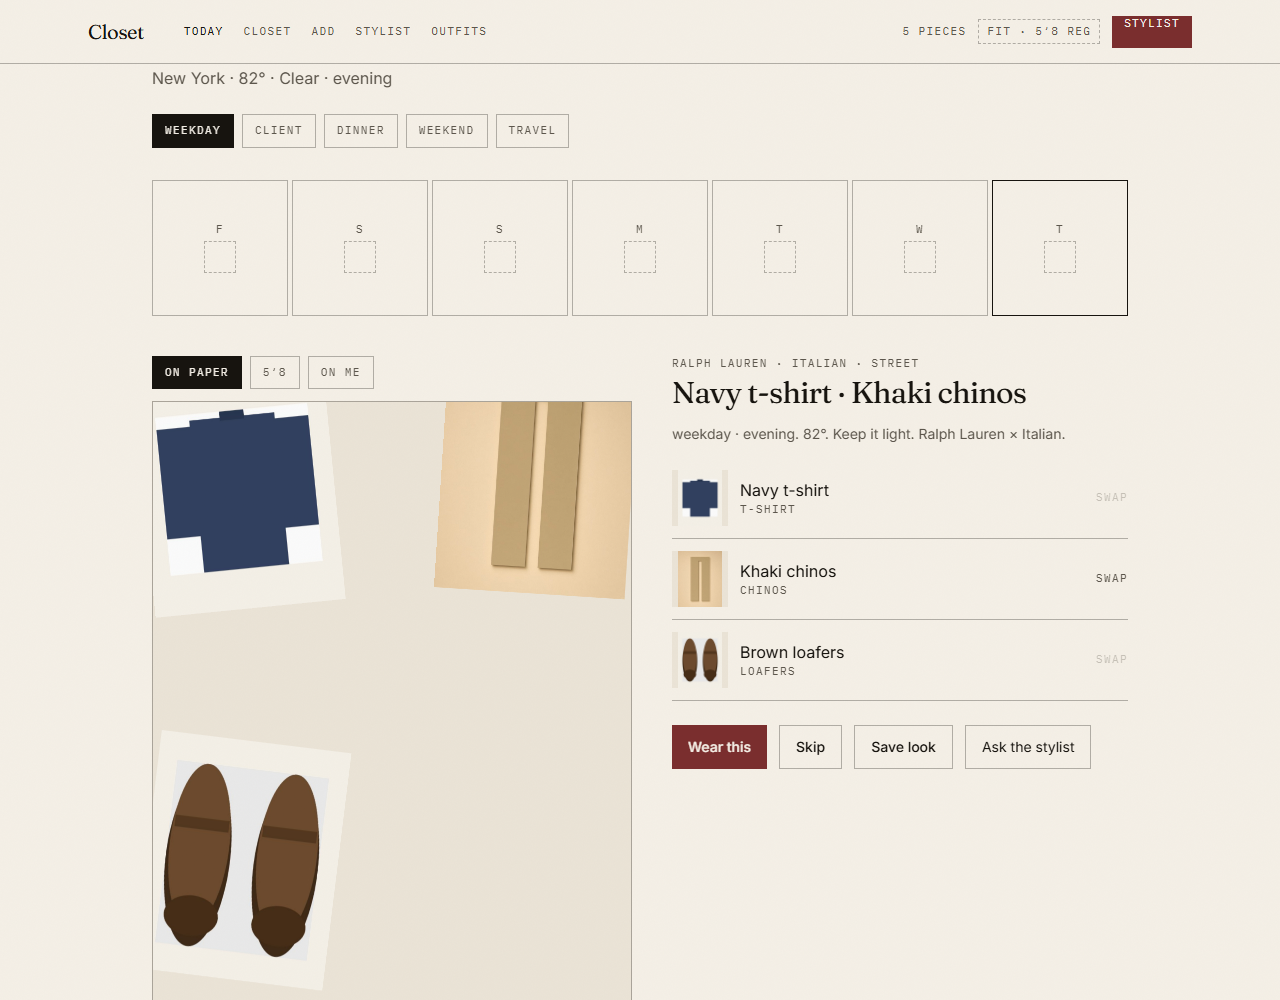
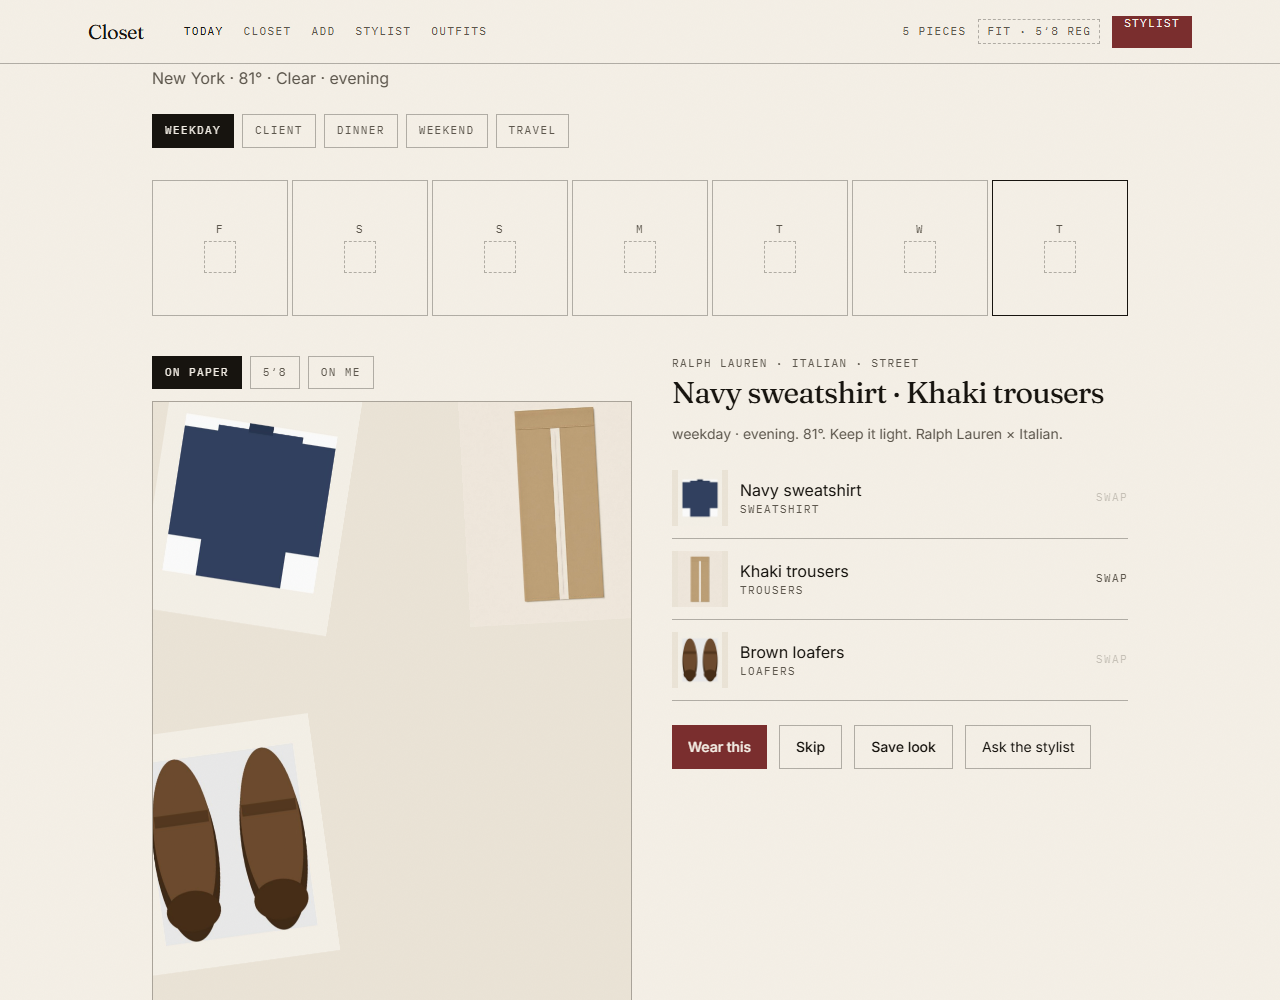
Cover law: page, phone, or studio — never a webpage on the grid
- matte classifies the upload: page (chrome bands), phone (flood vs
  interior), studio (near-white, crop to content, fills the page).
- Pages only enter the closet as an extracted garment. With the key,
  grok-imagine pulls the single piece out of the chrome; without it,
  the upload is refused — right-click the clothing photo, drop that.
- Covers are tagged, not screenshots: name the cover, brand may be
  read from the page chrome as context (Axel Arigato, AMI), never
  FARFETCH IDs or IMG_ filenames.
- Drawer: Cover | Original, 'Use my photo as cover'.

diff --git a/src/components/add/studio.tsx b/src/components/add/studio.tsx
@@ -24,12 +24,24 @@ type Saved = {
   cutout: string;
 };
 
+/** A shopping-page screenshot we cannot extract (no key) — not a read error. */
+class PageRejected extends Error {}
+
+/** Filenames and shop chrome are never names. */
+function badName(name: string): boolean {
+  return (
+    looksLikeFilename(name) ||
+    /farfetch|ssense|net-a-porter|mr\s?porter|add to bag|\bID\b/i.test(name)
+  );
+}
+
 export function Studio() {
   const addGarment = useCloset((s) => s.addGarment);
   const [busy, setBusy] = useState(false);
   const [progress, setProgress] = useState("");
   const [error, setError] = useState<string | null>(null);
   const [failed, setFailed] = useState<string[]>([]);
+  const [rejected, setRejected] = useState<string[]>([]);
   const [saved, setSaved] = useState<Saved[]>([]);
   const [canPrint, setCanPrint] = useState<boolean | null>(null);
   const pickRef = useRef<HTMLInputElement>(null);
@@ -47,15 +59,21 @@ export function Studio() {
       // Originals shrink to max edge 1600 before they ever touch storage.
       const original = await shrinkDataUrl(raw, 1600, 0.85);
       const matte = await matteToPaper(original);
-      // The catalog print is a digital print of HIS exact piece — the flood
-      // cutout stays as fallback if there's no key or the edit fails.
+      // A webpage is never a cover. Without the key we cannot extract the
+      // garment, so the piece is refused instead of framed.
+      if (matte.kind === "page" && !canPrint) {
+        throw new PageRejected();
+      }
+      // The cover is a catalog photograph of HIS exact piece — for phone
+      // shots the flood cutout stays as fallback if the edit fails.
       let cutout = matte.cutoutSrc;
-      let source: ImageSource = matte.official
-        ? "official"
-        : matte.quality === "busy"
-          ? "photo"
-          : "segmented";
-      if (!matte.official && canPrint) {
+      let source: ImageSource =
+        matte.kind === "studio"
+          ? "official"
+          : matte.quality === "busy"
+            ? "photo"
+            : "segmented";
+      if (matte.kind !== "studio" && canPrint) {
         try {
           const print = await printGarment({
             data: { image: await shrinkDataUrl(original, 1024) },
@@ -70,24 +88,40 @@ export function Studio() {
           /* flood version stays */
         }
       }
+      // A page only enters the closet as an extracted garment. If the edit
+      // failed, refuse it rather than frame the webpage.
+      if (matte.kind === "page" && source !== "cutout") {
+        throw new PageRejected();
+      }
       let name = "";
       let category: Category = "other";
       let subtype = "";
       let colors: string[] = [];
       let material = "";
+      let brand = "";
       let fit: "slim" | "regular" | "relaxed" = "regular";
       let formality: 1 | 2 | 3 | 4 | 5 = 3;
       let warmth: 1 | 2 | 3 | 4 | 5 = 3;
       try {
-        // Tag the print, not the messy original.
+        // Tag the cover, not the messy original. For a page, the original
+        // goes along as context only — the brand may live in the chrome.
         const thumb = await shrinkDataUrl(cutout, 768);
-        const tag = await tagGarment({ data: { image: thumb } });
-        if (tag.ok && !looksLikeFilename(tag.name)) {
+        const tag = await tagGarment({
+          data: {
+            image: thumb,
+            context:
+              matte.kind === "page"
+                ? await shrinkDataUrl(original, 768)
+                : undefined,
+          },
+        });
+        if (tag.ok && !badName(tag.name)) {
           name = tag.name;
           category = tag.category;
           subtype = tag.subtype;
           colors = tag.colors;
           material = tag.material;
+          brand = tag.brand;
           fit = tag.fit;
           formality = tag.formality;
           warmth = tag.warmth;
@@ -95,9 +129,9 @@ export function Studio() {
       } catch {
         /* fall through to guess */
       }
-      if (!name || looksLikeFilename(name) || category === "other") {
+      if (!name || badName(name) || category === "other") {
         const guess = await guessGarment(cutout);
-        if (!name || looksLikeFilename(name)) name = guess.name;
+        if (!name || badName(name)) name = guess.name;
         if (category === "other") {
           category = guess.category;
           subtype = subtype || guess.subtype;
@@ -115,7 +149,7 @@ export function Studio() {
         subtype,
         colors,
         material,
-        brand: "",
+        brand,
         notes: matte.reason,
         formality,
         warmth,
@@ -143,6 +177,7 @@ export function Studio() {
       let i = 0;
       let done = 0;
       const misses: string[] = [];
+      const pages: string[] = [];
       const worker = async () => {
         while (i < images.length) {
           const file = images[i++]!;
@@ -152,9 +187,10 @@ export function Studio() {
             done++;
             setProgress(`${done} / ${images.length} — ${piece.name}`);
             setSaved((cur) => [piece, ...cur]);
-          } catch {
+          } catch (e) {
             done++;
-            misses.push(file.name);
+            if (e instanceof PageRejected) pages.push(file.name);
+            else misses.push(file.name);
           }
           // Let the tab breathe between pieces.
           await new Promise((r) => setTimeout(r, 0));
@@ -164,6 +200,7 @@ export function Studio() {
       setBusy(false);
       setProgress("");
       if (misses.length) setFailed((cur) => [...misses, ...cur]);
+      if (pages.length) setRejected((cur) => [...pages, ...cur]);
     },
     [processOne],
   );
@@ -259,12 +296,19 @@ export function Studio() {
       {canPrint === false && (
         <p className="text-sm text-ink-soft border border-hairline bg-card px-4 py-3">
           No XAI_API_KEY here — pieces float on paper with the local cut instead
-          of a catalog print. Set XAI_API_KEY for catalog prints.
+          of a catalog cover. Set XAI_API_KEY for catalog covers.
         </p>
       )}
       {error && (
         <p className="text-sm text-accent border border-accent/40 bg-card px-4 py-3">
           {error}
+        </p>
+      )}
+      {rejected.length > 0 && (
+        <p className="text-sm text-accent border border-accent/40 bg-card px-4 py-3">
+          {rejected.slice(0, 6).join(", ")}
+          {rejected.length > 6 ? "…" : ""} — that’s a webpage. Right-click the
+          clothing photo, save it, drop that.
         </p>
       )}
       {failed.length > 0 && (

diff --git a/src/lib/ai.ts b/src/lib/ai.ts
@@ -8,6 +8,7 @@ export type TagResult = {
   subtype: string;
   colors: string[];
   material: string;
+  brand: string;
   fit: "slim" | "regular" | "relaxed";
   formality: 1 | 2 | 3 | 4 | 5;
   warmth: 1 | 2 | 3 | 4 | 5;
@@ -24,10 +25,25 @@ const CATEGORY_SET = new Set([
 ]);
 
 export const tagGarment = createServerFn({ method: "POST" })
-  .validator((input: { image: string }) => input)
+  .validator((input: { image: string; context?: string }) => input)
   .handler(async ({ data }): Promise<TagResult> => {
     const apiKey = process.env.XAI_API_KEY;
     if (!apiKey) return { ok: false, error: "AI tagging is unavailable here." };
+
+    const userContent: unknown[] = [
+      { type: "image_url", image_url: { url: data.image } },
+    ];
+    if (data.context) {
+      userContent.push({ type: "image_url", image_url: { url: data.context } });
+    }
+    userContent.push({
+      type: "text",
+      text:
+        'Return ONLY JSON: {"name":"Khaki chinos","category":"top|bottom|outerwear|dress|footwear|accessory|other","subtype":"chinos","colors":["khaki"],"material":"cotton","brand":"","fit":"slim|regular|relaxed","formality":3,"warmth":2}. Name the FIRST image like a closet label: color + garment (Navy oxford, Grey merino, White sneakers). Fit from how it lies. If unsure, regular.' +
+        (data.context
+          ? " The second image is only the page the garment came from — you may read a brand name from it (Axel Arigato, AMI), nothing else. Never name the garment after the shop or a page ID."
+          : " Brand only if a label or logo is legible on the garment itself, else empty."),
+    });
 
     const res = await fetch("https://api.x.ai/v1/chat/completions", {
       method: "POST",
@@ -43,18 +59,9 @@ export const tagGarment = createServerFn({ method: "POST" })
           {
             role: "system",
             content:
-              "You tag ONE garment in the photo. Catalog voice. Never a filename (no IMG_0930). Never invent a brand. JSON only.",
+              "You tag ONE garment in the photo. Catalog voice. Never a filename (no IMG_0930). Never a shop name or page ID (no FARFETCH, no SKU). Never invent a brand. JSON only.",
           },
-          {
-            role: "user",
-            content: [
-              { type: "image_url", image_url: { url: data.image } },
-              {
-                type: "text",
-                text: 'Return ONLY JSON: {"name":"Khaki chinos","category":"top|bottom|outerwear|dress|footwear|accessory|other","subtype":"chinos","colors":["khaki"],"material":"cotton","fit":"slim|regular|relaxed","formality":3,"warmth":2}. Name like a closet label: color + garment (Navy oxford, Grey merino, White sneakers). Fit from how it lies. If unsure, regular.',
-              },
-            ],
-          },
+          { role: "user", content: userContent },
         ],
       }),
     });
@@ -83,6 +90,7 @@ export const tagGarment = createServerFn({ method: "POST" })
           ? parsed.colors.filter((c) => typeof c === "string").slice(0, 4)
           : [],
         material: String(parsed.material ?? "").slice(0, 32),
+        brand: String(parsed.brand ?? "").slice(0, 40),
         fit,
         formality: (formality >= 1 && formality <= 5 ? formality : 3) as 1 | 2 | 3 | 4 | 5,
         warmth: (warmth >= 1 && warmth <= 5 ? warmth : 3) as 1 | 2 | 3 | 4 | 5,
@@ -126,7 +134,7 @@ export const printGarment = createServerFn({ method: "POST" })
   .validator((input: { image: string }) => input)
   .handler(async ({ data }): Promise<EditResult> => {
     const apiKey = process.env.XAI_API_KEY;
-    if (!apiKey) return { ok: false, error: "Set XAI_API_KEY for catalog prints." };
+    if (!apiKey) return { ok: false, error: "Set XAI_API_KEY for catalog covers." };
     const res = await fetch("https://api.x.ai/v1/images/edits", {
       method: "POST",
       headers: {
@@ -137,7 +145,7 @@ export const printGarment = createServerFn({ method: "POST" })
         model: "grok-imagine-image-2.0",
         image: { url: data.image },
         prompt:
-          "Catalog product photo of the SINGLE garment in this image. If this is a screenshot of a shopping page or order email (prices, buttons, color dots, text, navigation), extract ONLY the garment — never frame the webpage. Keep the exact color, fabric, stitching, hardware, and wear. Remove the floor, wall, hanger, hands, and any room. Lay the garment flat on a warm paper background (#F4EFE6), 4:5 portrait, filling about 80% of the frame. Do not replace or invent clothing.",
+          "Product photograph of the SINGLE garment only. Keep the exact garment: color, fabric, stitching, hardware, logos, wear. Remove floor, walls, hangers, people, webpage chrome, prices, IDs, buttons, color swatches, text. Lay the garment (or pair of shoes) neatly on a solid #F4EFE6 paper, 4:5, garment filling ~80% of the frame, even light, no shadow theater. Do not invent a different item, brand, or color.",
       }),
     });
     return readEditedImage(res);

diff --git a/src/lib/matte.ts b/src/lib/matte.ts
@@ -13,12 +13,14 @@ const PAD = 0.1;
 
 export type MatteQuality = "clean" | "ok" | "busy";
 
+/** What the upload actually is. Decides the cover path, not just the matte. */
+export type IngestKind = "page" | "phone" | "studio";
+
 export type MatteResult = {
   cutoutSrc: string;
   quality: MatteQuality;
   reason: string;
-  /** True when the shot is already catalog-like (white/grey studio bg) — no flood. */
-  official: boolean;
+  kind: IngestKind;
 };
 
 function median(nums: number[]): number {
@@ -122,7 +124,7 @@ function sampleBorder(data: Uint8ClampedArray, w: number, h: number) {
 
 /** A studio/product shot: border is uniform, near-white and near-achromatic.
  *  A cream wall or wood floor fails at least one leg and gets the flood. */
-function looksOfficial(
+function looksStudio(
   bg: { r: number; g: number; b: number },
   frac: number,
   mad: number,
@@ -134,9 +136,9 @@ function looksOfficial(
 }
 
 /** Shopping-page screenshots also have a white border, but the top/bottom
- *  bands carry nav text, prices, "Add to bag". Dense dark ink there means
- *  page chrome — extract the garment, never frame the webpage. */
-function looksScreenshot(data: Uint8ClampedArray, w: number, h: number): boolean {
+ *  bands carry nav text, prices, "Add to bag", SKU/ID blocks. Dense dark ink
+ *  there means page chrome — extract the garment, never frame the webpage. */
+function looksPage(data: Uint8ClampedArray, w: number, h: number): boolean {
   const band = Math.max(8, Math.round(h * 0.09));
   let dark = 0;
   let n = 0;
@@ -327,13 +329,14 @@ export async function matteToPaper(imageSrc: string): Promise<MatteResult> {
   const image = ctx.getImageData(0, 0, canvas.width, canvas.height);
   const { bg, frac, mad, floodTol } = sampleBorder(image.data, canvas.width, canvas.height);
 
-  if (looksOfficial(bg, frac, mad) && !looksScreenshot(image.data, canvas.width, canvas.height)) {
+  const page = looksPage(image.data, canvas.width, canvas.height);
+  if (looksStudio(bg, frac, mad) && !page) {
     // Clean product shot: crop to the garment so it fills the page.
     const box = contentBounds(image.data, canvas.width, canvas.height, bg, floodTol);
     return {
       cutoutSrc: compositePaper(canvas, box),
       quality: "clean",
-      official: true,
+      kind: "studio",
       reason: "Already a catalog shot — centered on paper, pixels untouched.",
     };
   }
@@ -356,7 +359,7 @@ export async function matteToPaper(imageSrc: string): Promise<MatteResult> {
     quality = "ok";
     reason = "Floated on paper. Soft edge — a plainer surface will be tighter.";
   }
-  return { cutoutSrc, quality, reason, official: false };
+  return { cutoutSrc, quality, reason, kind: page ? "page" : "phone" };
 }
 
 export function preflightHints(file: File): string[] {

diff --git a/src/components/closet/detail.tsx b/src/components/closet/detail.tsx
@@ -84,7 +84,7 @@ export function GarmentDetail({
                   view === v ? "bg-ink text-paper" : "text-ink-soft",
                 )}
               >
-                {v === "print" ? "Print" : "Original"}
+                {v === "print" ? "Cover" : "Original"}
               </button>
             ))}
             {refPhoto && (
@@ -109,7 +109,7 @@ export function GarmentDetail({
               }}
               className="micro w-full py-2 text-ink-soft border-t border-hairline hover:text-ink"
             >
-              Use my photo — the print lies
+              Use my photo as cover — the extract lies
             </button>
           )}
         </div>
